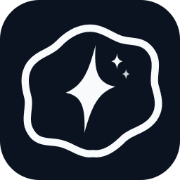
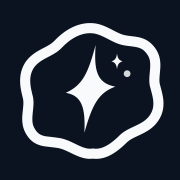
feat(brand): 공식 로고와 앱 아이콘 체계 확립
- 투명 인장 로고와 모서리를 채운 앱 아이콘 원본 분리
- 워드마크의 우편 일러스트를 공식 로고로 교체
- 파비콘·Apple·PWA 크기별 아이콘과 마스킹 용도 갱신

diff --git a/frontend/src/app/manifest.ts b/frontend/src/app/manifest.ts
@@ -12,7 +12,7 @@ export default function manifest(): MetadataRoute.Manifest {
     start_url: `${basePath}/`,
     scope: `${basePath}/`,
     display: "standalone",
-    background_color: "#0D1321",
+    background_color: "#0B1320",
     theme_color: "#0D1321",
     lang: "ko-KR",
     icons: [
@@ -27,6 +27,18 @@ export default function manifest(): MetadataRoute.Manifest {
         sizes: "512x512",
         type: "image/png",
         purpose: "any",
+      },
+      {
+        src: `${basePath}/icons/pwa-192x192.png`,
+        sizes: "192x192",
+        type: "image/png",
+        purpose: "maskable",
+      },
+      {
+        src: `${basePath}/icons/pwa-512x512.png`,
+        sizes: "512x512",
+        type: "image/png",
+        purpose: "maskable",
       },
     ],
   };

diff --git a/frontend/src/features/components/home/BrandWordmark.tsx b/frontend/src/features/components/home/BrandWordmark.tsx
@@ -1,14 +1,14 @@
 "use client";
 
 import styled from "@emotion/styled";
-import { GibyeolMark } from "@features/components/brand/GibyeolMark";
+import { GibyeolLogo } from "@features/components/brand/GibyeolLogo";
 
 export type BrandWordmarkProps = {
   children?: string;
 };
 
 export function BrandWordmark({ children = "기별" }: BrandWordmarkProps) {
-  return <Wordmark aria-label="기별"><GibyeolMark size={42} /><Name>{children}</Name></Wordmark>;
+  return <Wordmark aria-label="기별"><GibyeolLogo size={34} priority /><Name>{children}</Name></Wordmark>;
 }
 
 const Wordmark = styled.span`

diff --git a/frontend/src/features/components/brand/GibyeolLogo.tsx b/frontend/src/features/components/brand/GibyeolLogo.tsx
@@ -1,0 +1,24 @@
+"use client";
+
+import Image from "next/image";
+
+export type GibyeolLogoProps = {
+  size?: number;
+  className?: string;
+  priority?: boolean;
+};
+
+export function GibyeolLogo({ size = 36, className, priority = false }: GibyeolLogoProps) {
+  return (
+    <Image
+      className={className}
+      src="/brand/gibyeol-logo.svg"
+      width={size}
+      height={size}
+      alt=""
+      aria-hidden="true"
+      priority={priority}
+      style={{ width: size, height: "auto" }}
+    />
+  );
+}
